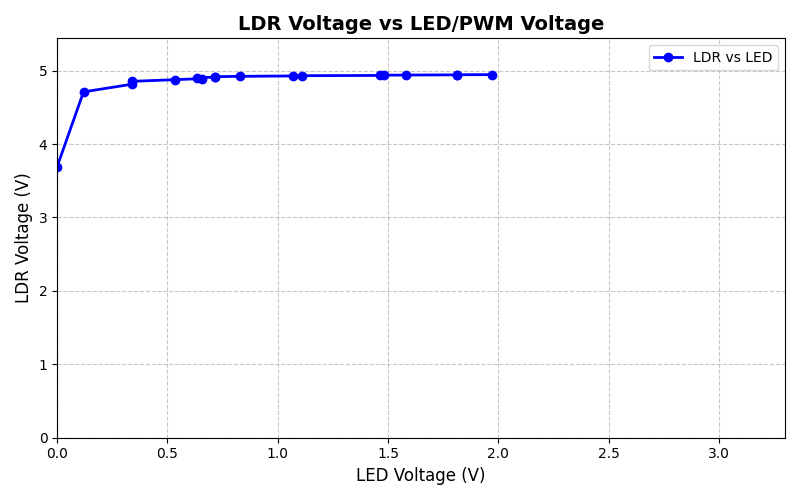
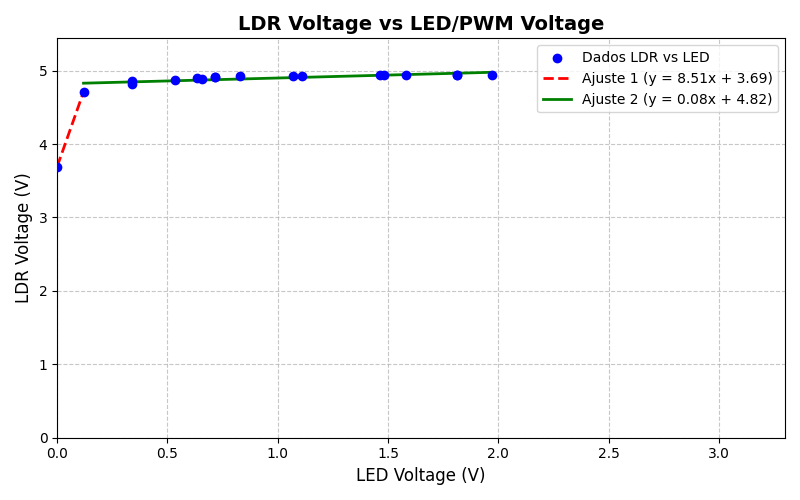
Enhance README and add LDR resistance graph; update sensor analysis for resistance calculations

diff --git a/sensor_analysis.py b/sensor_analysis.py
@@ -7,6 +7,8 @@ from collections import defaultdict
 
 INPUT_FILE = "logs/data_serial3.csv"
 OUTPUT_FILE = "results/duty_result3.txt"
+KILO = 1000
+R2 = 120 * KILO
 
 os.makedirs("results", exist_ok=True)
 
@@ -120,14 +122,84 @@ def build_ldr_volt_values(result):
     return v
 
 
+def ldr_resistance_func(v):
+    return ((5 * R2) / (v)) - R2
+
+
+def build_ldr_resistance(result):
+    v = []
+    for row in result:
+        v.append(ldr_resistance_func(row['ldr_mv_mean'] / 1000))
+    return v
+
+
 def plot_voltage_graph(led, ldr):
     fig, ax = plt.subplots(figsize=(8, 5))
 
-    ax.plot(led, ldr, marker='o', linestyle='-', linewidth=2.0, color='b', label='LDR vs LED')
+    ax.scatter(led, ldr, color='b', label='Dados LDR vs LED', zorder=3)
+
+    if len(led) > 0:
+        # 1. Reta da origem (0,0) até o primeiro ponto experimental (led[0], ldr[0])
+        x_reta1 = [led[0], led[1]]
+        y_reta1 = [ldr[0], ldr[1]]
+        _m, _b = np.polyfit([led[0], led[1]], [ldr[0], ldr[1]], 1)
+        ax.plot(x_reta1, y_reta1, color='red', linestyle='--', linewidth=2.0, label=f'Ajuste 1 (y = {_m:.2f}x + {_b:.2f})')
+
+        # 2. Reta de ajuste (regressão linear) para os pontos restantes (do índice 1 em diante)
+        if len(led) > 1:
+            # Calcula a inclinação (m) e o ponto de intersecção (b) via Mínimos Quadrados
+            m, b = np.polyfit(led[1:], ldr[1:], 1)
+            
+            # Gera pontos no eixo X do 1º ponto até o valor máximo de led
+            x_reta2 = np.linspace(led[1], max(led), 100)
+            y_reta2 = m * x_reta2 + b
+            
+            ax.plot(x_reta2, y_reta2, color='green', linestyle='-', linewidth=2.0, 
+                    label=f'Ajuste 2 (y = {m:.2f}x + {b:.2f})')
 
     ax.set_title("LDR Voltage vs LED/PWM Voltage", fontsize=14, fontweight='bold')
     ax.set_xlabel("LED Voltage (V)", fontsize=12)
     ax.set_ylabel("LDR Voltage (V)", fontsize=12)
+
+    ax.grid(True, linestyle='--', alpha=0.7)
+    ax.legend(loc='best')
+
+    max_x = max(led) if led else 5.0
+    max_y = max(ldr) if ldr else 5.0
+    ax.set_xlim(0, max(3.3, max_x * 1.1))
+    ax.set_ylim(0, max(3.3, max_y * 1.1))
+
+    plt.tight_layout()
+    plt.show()
+
+
+def plot_resistance_graph(led, ldr):
+    fig, ax = plt.subplots(figsize=(8, 5))
+
+    ax.scatter(led, ldr, color='b', label='Dados LDR(Ohm) vs LED', zorder=3)
+
+    if len(led) > 0:
+        # 1. Reta da origem (0,0) até o primeiro ponto experimental (led[0], ldr[0])
+        x_reta1 = [led[0], led[1]]
+        y_reta1 = [ldr[0], ldr[1]]
+        _m, _b = np.polyfit([led[0], led[1]], [ldr[0], ldr[1]], 1)
+        ax.plot(x_reta1, y_reta1, color='red', linestyle='--', linewidth=2.0, label=f'Ajuste 1 (y = {_m:.2f}x + {_b:.2f})')
+
+        # 2. Reta de ajuste (regressão linear) para os pontos restantes (do índice 1 em diante)
+        if len(led) > 1:
+            # Calcula a inclinação (m) e o ponto de intersecção (b) via Mínimos Quadrados
+            m, b = np.polyfit(led[1:], ldr[1:], 1)
+            
+            # Gera pontos no eixo X do 1º ponto até o valor máximo de led
+            x_reta2 = np.linspace(led[1], max(led), 100)
+            y_reta2 = m * x_reta2 + b
+            
+            ax.plot(x_reta2, y_reta2, color='green', linestyle='-', linewidth=2.0, 
+                    label=f'Ajuste 2 (y = {m:.2f}x + {b:.2f})')
+
+    ax.set_title("LDR Resistance vs LED/PWM Voltage", fontsize=14, fontweight='bold')
+    ax.set_xlabel("LED Voltage (V)", fontsize=12)
+    ax.set_ylabel("LDR Resistance (Ω)", fontsize=12)
 
     ax.grid(True, linestyle='--', alpha=0.7)
     ax.legend(loc='best')
@@ -157,4 +229,8 @@ if __name__ == "__main__":
     # print(led_volt)
     # print(ldr_volt)
 
+    ldr_resistance = build_ldr_resistance(result)
+    # print(ldr_resistance)
+
     plot_voltage_graph(led_volt, ldr_volt)
+    plot_resistance_graph(led_volt, ldr_resistance)

diff --git a/main.c b/main.c
@@ -35,13 +35,12 @@
 typedef struct
 {
     uint8_t duty;
-#ifdef LDR_MEASUREMENT
+
     uint16_t led_raw;
     uint16_t led_mv;
 
     uint16_t ldr_raw;
     uint16_t ldr_mv;
-#endif
 } data_t;
 
 data_t data = {0};
@@ -166,7 +165,6 @@ static void log_status(const data_t *d)
 {
     usart0_print_num(d->duty);
     usart0_print(",");
-#ifdef LDR_MEASUREMENT
     usart0_print_num(d->led_raw);
     usart0_print(",");
     usart0_print_num(d->led_mv);
@@ -175,7 +173,6 @@ static void log_status(const data_t *d)
     usart0_print(",");
     usart0_print_num(d->ldr_mv);
     usart0_print(",");
-#endif
     usart0_print("\r\n");
 }
 
@@ -210,6 +207,11 @@ int main(void)
 
             log_status(&data);
         }
+
+        // if (data.duty < 16)
+        // {
+        //     data.duty++;
+        // }
 
         if (data.duty < 255)
         {

diff --git a/README.md b/README.md
@@ -7,3 +7,7 @@
 ## LDR Voltage graphic using PWM
 
 ![LDR Graph](images/graph_ldr_pwm.png)
+
+## LDR Resistance graphic
+
+![LDR Resistance](images/graph_ldr_resistance.png)
